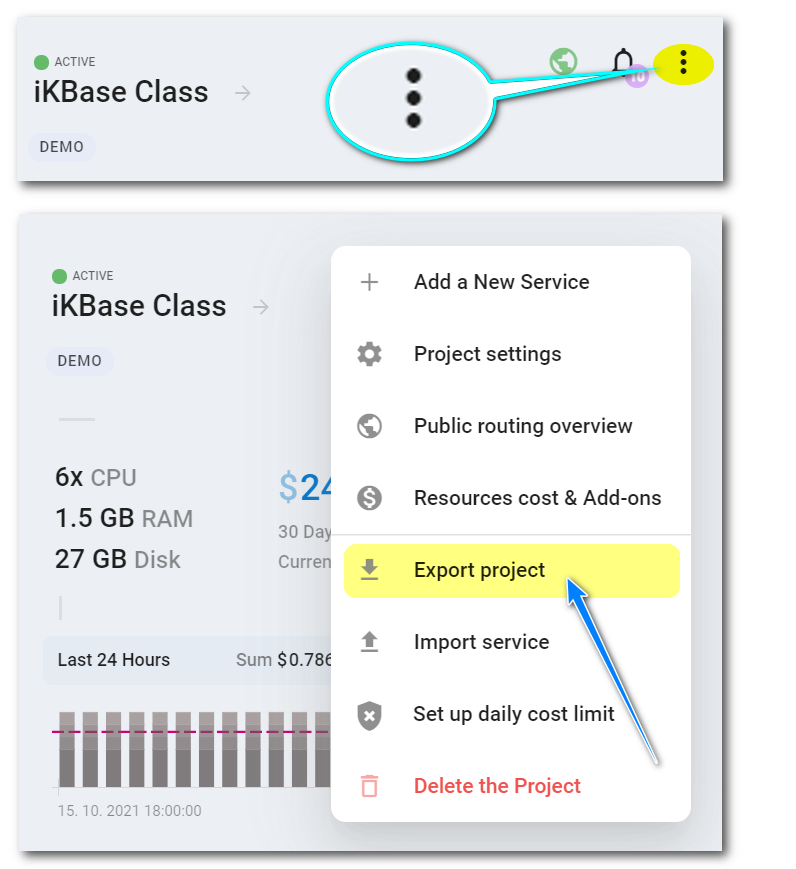
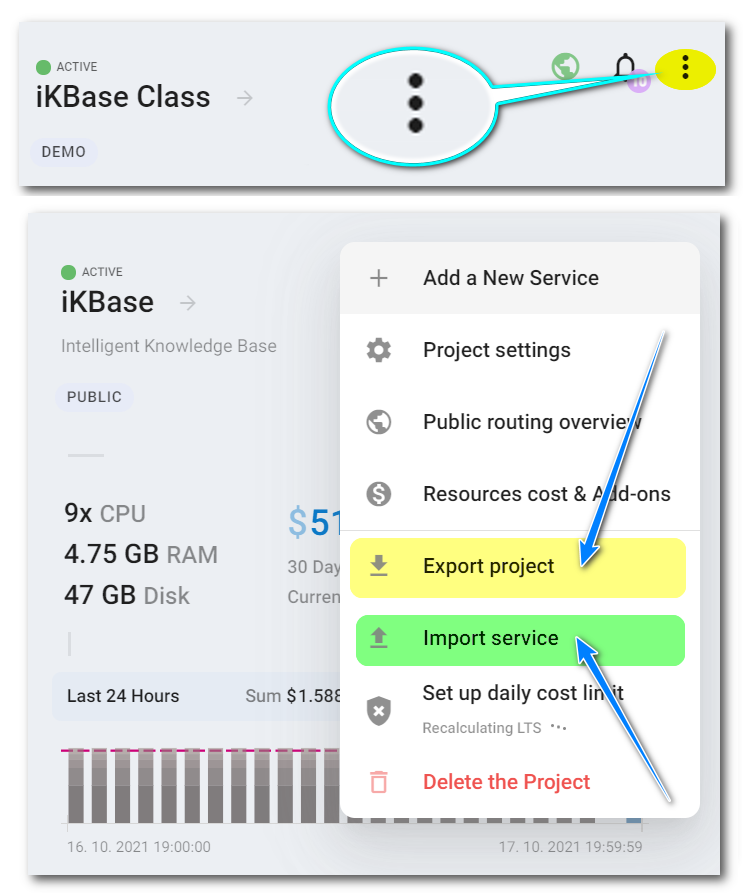
docs(export&import): toc

diff --git a/src/documentation/export-import/project-service-export-import.md b/src/documentation/export-import/project-service-export-import.md
@@ -1,22 +1,28 @@
 # Export & import of Zerops projects and services structure
 
-The concept of Zerops export and import functionality can be explained in the example of two primary areas where you can use it effectively.
+Zerops export and import functionality can be used to make a copy of an existing project/service or as an alternative way to adding a new project/service manually through the Zerops GUI. It is important to note that only structure, configuration, and environment variables are exported/imported. Restoring application data related to databases ([MariaDB](/documentation/services/databases/mariadb.html#how-to-backup-restore-database-data), MongoDB, Redis), storage ([Object Storage](/documentation/services/storage/s3.html#using-rclone-as-a-local-management-tool), Shared Storage), and engines (Elasticsearch, RabbitMQ),  deploying applications, and setting up [public routing](/documentation/routing/using-your-domain.html) is up to a user.
 
-1. Obtaining a simple skeleton of an existing project or its services, created step by step in the Zerops GUI and using it to automate the creation of the same project/services or creating a new copy of them. The skeleton doesn't contain any application data, only the structure and configuration setting. **It's ready for daily use.**
+[[TOC]]
 
-2. Ability to create more sophisticated skeletons and use them to simulate different project scenarios, testing and validation, including a fully prepared skeleton to re-create Zerops projects from the ground on one click or as a part of other automation scripts. **It is not available yet.** However, it is possible to perceive it as the target where Zerops is heading in this area.
+## How to export / import a project
 
-## How to get exports
-
-You can find several places in the Zerops GUI to get them. For the whole project, it's primarily the project main menu, as shown on the following picture.
+You can find several places in the Zerops GUI where you can do it. The primary one for export is the main project menu, as shown in the following picture. The project is exported including all of its services.
 
 ![Zerops exports](./images/Project-Export.png "Zerops project export")
 
-For each project service, it's a similar service menu as shown below.
+You can import the whole project, including all its services, on the same page you use for creating a new project manually.
+
+![Zerops imports](./images/Project-Import.png "Zerops project import")
+
+## How to export / import a service
+
+The right place to export a project service is its service menu, as shown below.
 
 ![Zerops exports](./images/Service-Export.png "Zerops service export")
 
-## Used format and how it looks
+Importing a project service can be done again in the project menu, as shown in the [picture at the top](#how-to-export-import-a-project).
+
+## Used YAML specification
 
 Zerops uses a YAML definition format to describe the structures. If you make a project export, you can get something similar to the following. You can see two main parts, `project` and `services`. If you export a service separately, only the `services` part is there with that one exported service.
 
@@ -37,6 +43,11 @@ services:
   - port: 9090
     protocol: UDP
     httpSupport: false
+  envVariables:
+  - key: jwt_token_secret
+    content: M3rW31Ne%T@bRk
+  - key: password_encryption_secret
+    content: X322%wE@8@Ur6Pv
   startCommand: ./bin/main.exe
 - hostname: phpapache
   type: php-apache@8.0
@@ -51,51 +62,64 @@ services:
   mode: HA
 ```
 
-## Available syntax
+**`project`**
 
-**Project keywords**:
+Project structure uses `name`, `description`, and `tags` items.
 
-`name` <string>
+`name`: string
 
 Existed project name, pre-pended by a prefix of `copy of` to differentiate it.
 
-`description` <string> (optional)
+`description`: string (optional)
 
 Project description, if entered.
 
-`tags` Array<string> (optional)
+`tags`: Array[string] (optional)
 
-A set of project tags, if entered. Each of them on a separate line with the opening dash.
+A sequence of project tags, if entered. Each of them on a separate line with the opening dash.
 
-**Service keywords**:
+**`services`**
 
-`- hostname` <string> (the opening dash required)
+A sequence of project services (1~N). Several general items are shared across all service structures, and exception ones are used only in some.
+
+`hostname`: string
 
 A chosen short and descriptive URL-friendly unique service name. Related to [MariaDB](/documentation/services/databases/mariadb.html#hostname-and-port), [MongoDB](/documentation/services/databases/mongodb.html#hostname-and-port), Redis, [Node.js](/documentation/services/runtimes/nodejs.html#port), [Golang](/documentation/services/runtimes/golang.html#port), [PHP](/documentation/services/runtimes/php.html#hostname-and-port), Elasticsearch, RabbitMQ, [Object Storage](/documentation/services/storage/s3.html#object-storage-name), and [Shared Storage](/documentation/services/storage/shared.html#shared-storage-name).
 
-`type` <keyword>
+`type`: dictionary
 
-Service type and chosen version. Related to [MariaDB](/documentation/services/databases/mariadb.html#version-to-choose), [MongoDB](/documentation/services/databases/mongodb.html#version-to-choose), Redis, [Node.js](/documentation/services/runtimes/nodejs.html#version-to-choose), [Golang](/documentation/services/runtimes/golang.html#version-to-choose), [PHP](/documentation/services/runtimes/php.html#version-to-choose), Elasticsearch, RabbitMQ, [Object Storage](/documentation/services/storage/s3.html#version-to-choose), and [Shared Storage](/documentation/services/storage/shared.html#version-to-choose).
+Service type and chosen version. Each service documentation specifies its available options: [MariaDB](/documentation/services/databases/mariadb.html#version-to-choose), [MongoDB](/documentation/services/databases/mongodb.html#version-to-choose), Redis, [Node.js](/documentation/services/runtimes/nodejs.html#version-to-choose), [Golang](/documentation/services/runtimes/golang.html#version-to-choose), [PHP](/documentation/services/runtimes/php.html#version-to-choose), Elasticsearch, RabbitMQ, [Object Storage](/documentation/services/storage/s3.html#version-to-choose), and [Shared Storage](/documentation/services/storage/shared.html#version-to-choose).
 
-`mode` <keyword>
+`mode`: dictionary
 
-Affects whether a service should be run in ==**`HA`**== (High Availability) mode, using 3 or more containers, or ==**`NON_HA`**== mode, using only 1 container. Related to [MariaDB](/documentation/services/databases/mariadb.html#ha-non-ha-database-mode), MongoDB, Redis, [Node.js](/documentation/services/runtimes/nodejs.html#ha-non-ha-runtime-environment-mode), [Golang](/documentation/services/runtimes/golang.html#ha-non-ha-runtime-environment-mode)), [PHP](/documentation/services/runtimes/php.html#ha-non-ha-runtime-environment-mode), Elasticsearch, RabbitMQ, [Object Storage](/documentation/services/storage/s3.html#used-technology) (**always runs only in HA mode**) , and [Shared Storage](/documentation/services/storage/shared.html#default-hardware-configuration-and-autoscaling) (**always runs only in HA mode**).
+Affects whether a service should be run in ==**`HA`**== (High Availability) mode, using 3 or more containers, or ==**`NON_HA`**== mode, using only 1 container. Related to [MariaDB](/documentation/services/databases/mariadb.html#ha-non-ha-database-mode), MongoDB, Redis, [Node.js](/documentation/services/runtimes/nodejs.html#ha-non-ha-runtime-environment-mode), [Golang](/documentation/services/runtimes/golang.html#ha-non-ha-runtime-environment-mode)), [PHP](/documentation/services/runtimes/php.html#ha-non-ha-runtime-environment-mode), Elasticsearch, RabbitMQ, [Object Storage](/documentation/services/storage/s3.html#used-technology) (**always runs only in HA mode**) , and [Shared Storage](/documentation/services/storage/shared.html#default-hardware-configuration-and-autoscaling).
 
-`ports` Array<port> (optional)
+`ports`: Array[ServicePort] (optional)
 
-A set of service ports. Each set contains `port`, `protocol`, and `httpSupport` properties.
+A sequence of service ports (1~N). Each one contains `port`, `protocol`, and `httpSupport` items.
 
 Related only to [Node.js](/documentation/services/runtimes/nodejs.html#port) and [Golang](/documentation/services/runtimes/golang.html#port) runtime environment services, where you can change it. The rest of the services have the ports preset, and you can't change them. That's the reason why this part is not included at their level, and if entered, it's ignored.
 
-`- port` <integer> (the opening dash required)
+`port`: integer
 
 Chosen port number.
 
-`protocol` <keyword> (optional)
+`protocol`: dictionary (optional)
 
 Chosen protocol. The default value is the ==`TCP`== and it does not have to be entered. The other possible option is the ==`UDP`== value.
 
-`httpSupport` <boolean> (optional)
+`httpSupport`: boolean (optional)
 
 The default value ==`true`== indicates if a web server runs on the port (HTTP application protocol is supported), otherwise value ==`false`== is used. If enabled, it means that you can even map [public Internet domains](/documentation/routing/using-your-domain.html#using-your-domain-to-access-a-service) with the option of automatic support for SSL certificates (it also works for [Zerops subdomains](/documentation/routing/zerops-subdomain.html#zerops-subdomain-for-previews)).
 
+`envVariables`: Array[EnvironmentVariable] (optional)
+
+A sequence of [service environment variables](/documentation/environment-variables/how-to-access.html) (0~N). Each one contains `key` and `content` items.
+
+`key`: string
+
+Environment variable key.
+
+`content`: string
+
+Environment variable content.
